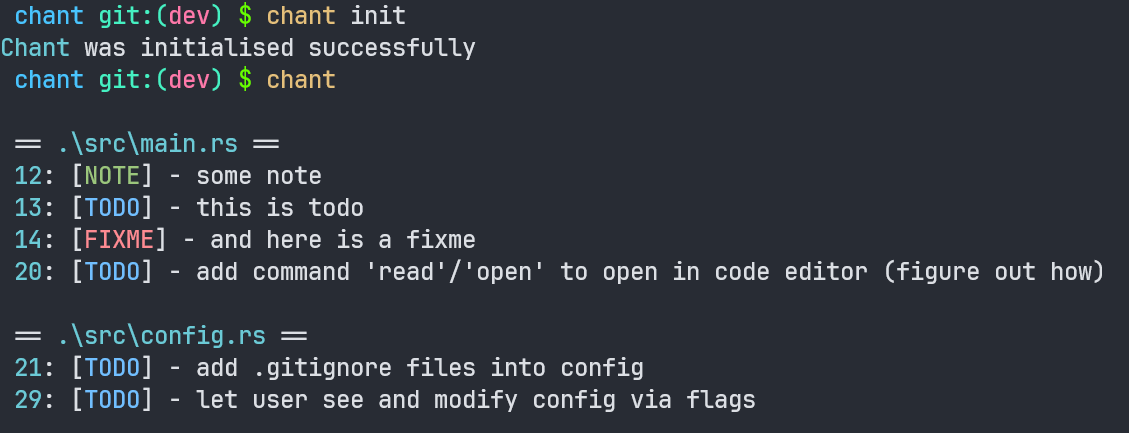
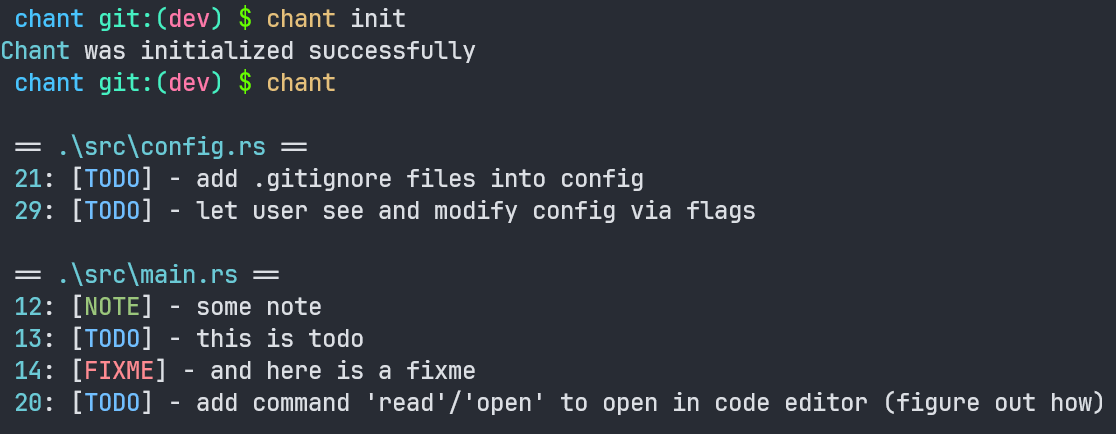
a little config update

Changed region(s): [[0.0, 0.3002, 1.0, 0.9607], [0.0, 0.0, 0.4265, 0.2102], [0.1828, 0.5404, 0.4265, 0.5704]]

diff --git a/src/commands.rs b/src/commands.rs
@@ -93,11 +93,11 @@ pub fn scan_force() {
             Ok(e) => {
                 let file_name = e.file_name().to_string_lossy();
                 let path = &e.path().to_string_lossy();
-                if e.file_type().is_dir() && config.ignore.contains(&file_name.to_string()) {
+                if e.file_type().is_dir() && config.files.ignore.contains(&file_name.to_string()) {
                     it.skip_current_dir();
                     continue;
-                } else if !config.ignore.contains(&file_name.to_string()) && !e.file_type().is_dir() && let Some(ext) = e.path().extension() {
-                    if config.read.contains(&ext.display().to_string()){
+                } else if !config.files.ignore.contains(&file_name.to_string()) && !e.file_type().is_dir() && let Some(ext) = e.path().extension() {
+                    if config.files.read.contains(&ext.display().to_string()){
                         let mut file = storage::new_file(path.to_string());
                         file = parser::parse_file(&file, false);
                         new_storage.files.insert(path.to_string(), file);
@@ -127,11 +127,11 @@ pub fn scan() {
             Ok(e) => {
                 let file_name = e.file_name().to_string_lossy();
                 let path = &e.path().to_string_lossy();
-                if e.file_type().is_dir() && config.ignore.contains(&file_name.to_string()) {
+                if e.file_type().is_dir() && config.files.ignore.contains(&file_name.to_string()) {
                     it.skip_current_dir();
                     continue;
                 } else if !e.file_type().is_dir() && let Some(ext) = e.path().extension() {
-                    if !config.ignore.contains(&file_name.to_string()) &&  config.read.contains(&ext.display().to_string()){
+                    if !config.files.ignore.contains(&file_name.to_string()) &&  config.files.ignore.contains(&ext.display().to_string()){
                         let mut file: storage::File;
                         if storage.files.contains_key(&path.to_string()) {
                             file = storage.files[&path.to_string()].clone();

diff --git a/src/config.rs b/src/config.rs
@@ -4,6 +4,10 @@ use toml;
 
 #[derive(Debug, Deserialize, Serialize)]
 pub struct Config {
+    pub files: Files,
+}
+#[derive(Debug, Deserialize, Serialize)]
+pub struct Files {
     pub read: Vec<String>,
     pub ignore: Vec<String>,
 }
@@ -21,7 +25,8 @@ pub fn create_config() {
 fn new_config() -> Config {
     let default_read: Vec<String> = vec!["rs".to_string(), "go".to_string(), "js".to_string(), "ts".to_string(), "dart".to_string(), "jsx".to_string(), "tsx".to_string(), "c".to_string(), "cpp".to_string(), "h".to_string(), "hpp".to_string(), "java".to_string()];
     let default_ignore: Vec<String> = vec!["target".to_string(), ".git".to_string(), "node_modules".to_string(), ".gitignore".to_string(), "vendor".to_string(), "build".to_string(), ".idea".to_string(), ".vscode".to_string()];
-    return Config { read: default_read, ignore: default_ignore }
+    let files: Files = Files {  read: default_read, ignore: default_ignore };
+    return Config { files: files }
 }
 
 
